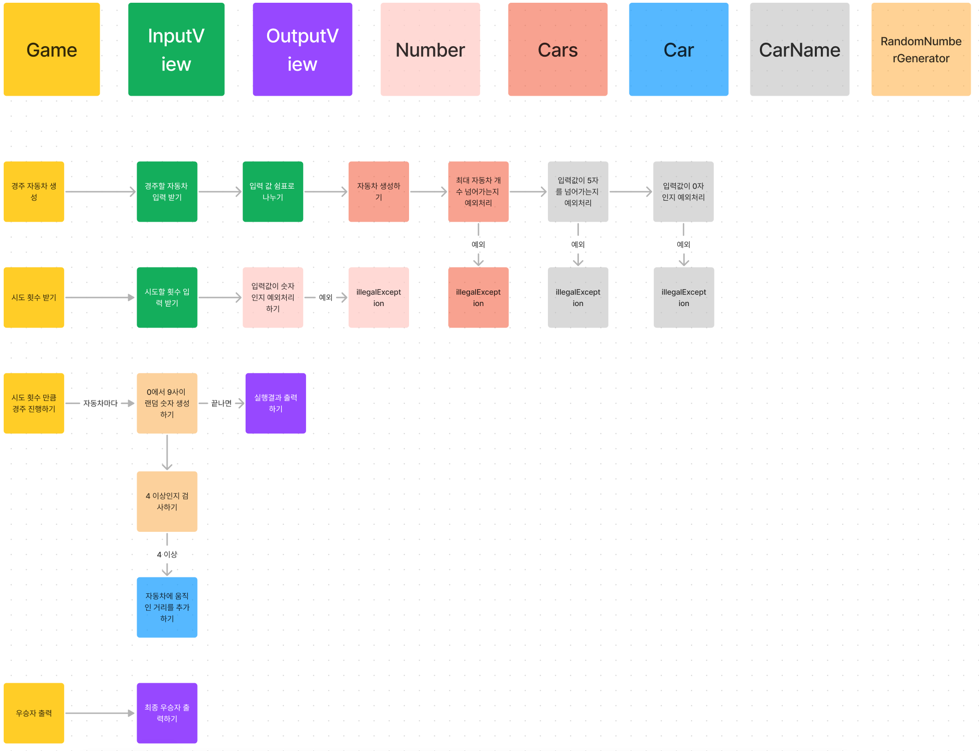
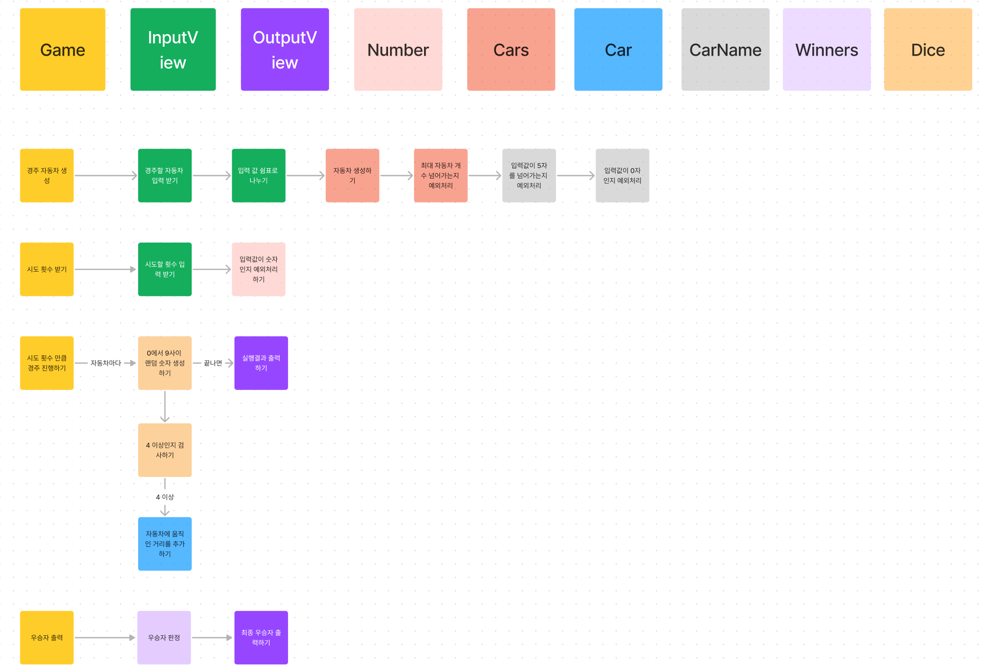
docs(readme, TDDStudy): 문서 내용 변경
* readme 파일의 flowchart를 갱신시켰다.
* TDDStudy에 불필요한 사진을 삭제했다.

diff --git a/docs/learn/TDDStudy.md b/docs/learn/TDDStudy.md
@@ -50,7 +50,6 @@ public class CarName {
         }  
     }
 ```
-![[Pasted image 20231027010059.png]]
 
 이렇게 TDD 방식대로 테스트 코드를 먼저 작성해보니까 이전에는 내가 싸질러(?) 놓은 코드들에 대한 테스트 코드를 작성하는게 귀찮았던 반면 테스트 코드를 먼저 작성하니까 테스트를 성공시키려고 노력하는 나를 발견했다. 그리고 기능별로 테스트 코드를 작성하고 코딩을 시작하니까 여러 기능이 하나의 메서드에서 사용되는 일이 거의 없었다. 단위 테스트를 진행하기 위해 여러 기능이 쪼개지게 되므로 클래스의 분리가 일어나고 재사용성, 가독성이 좋아지는 결과를 볼 수 있었다.
 또한 테스트를 위해 private를 public으로 바꿔야할까 고민한 적도 많았는데 이를 고민하는 이유는 보통 설계를 잘못해서 라고 한다. 하지만 TDD 방식으로 개발을 진행하면 애초에 테스트를 짜고 시작하니 우리가 만들어야할 기능은 public으로 만들 수 밖에 없다는 장점이다. 은연중에 설계에도 도움이 되는 느낌을 받았다.  

diff --git a/docs/README.md b/docs/README.md
@@ -59,5 +59,4 @@
 - [x] 최종 우승자 출력하기 
 
 # 실행 흐름도
-
 ![img.png](flowchart.png)
